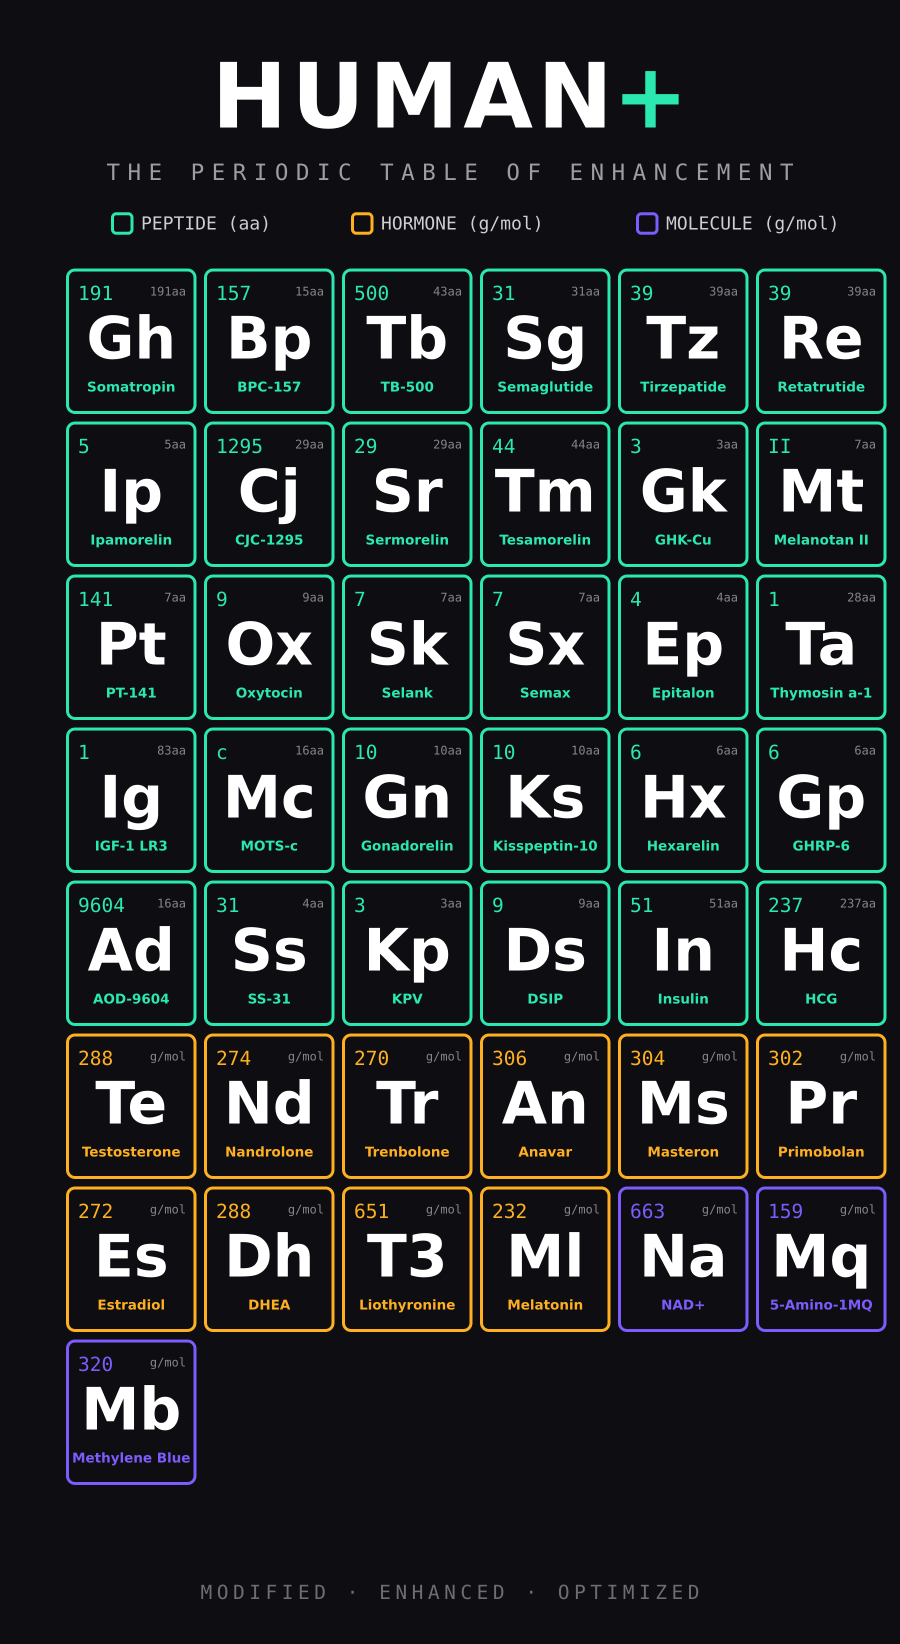
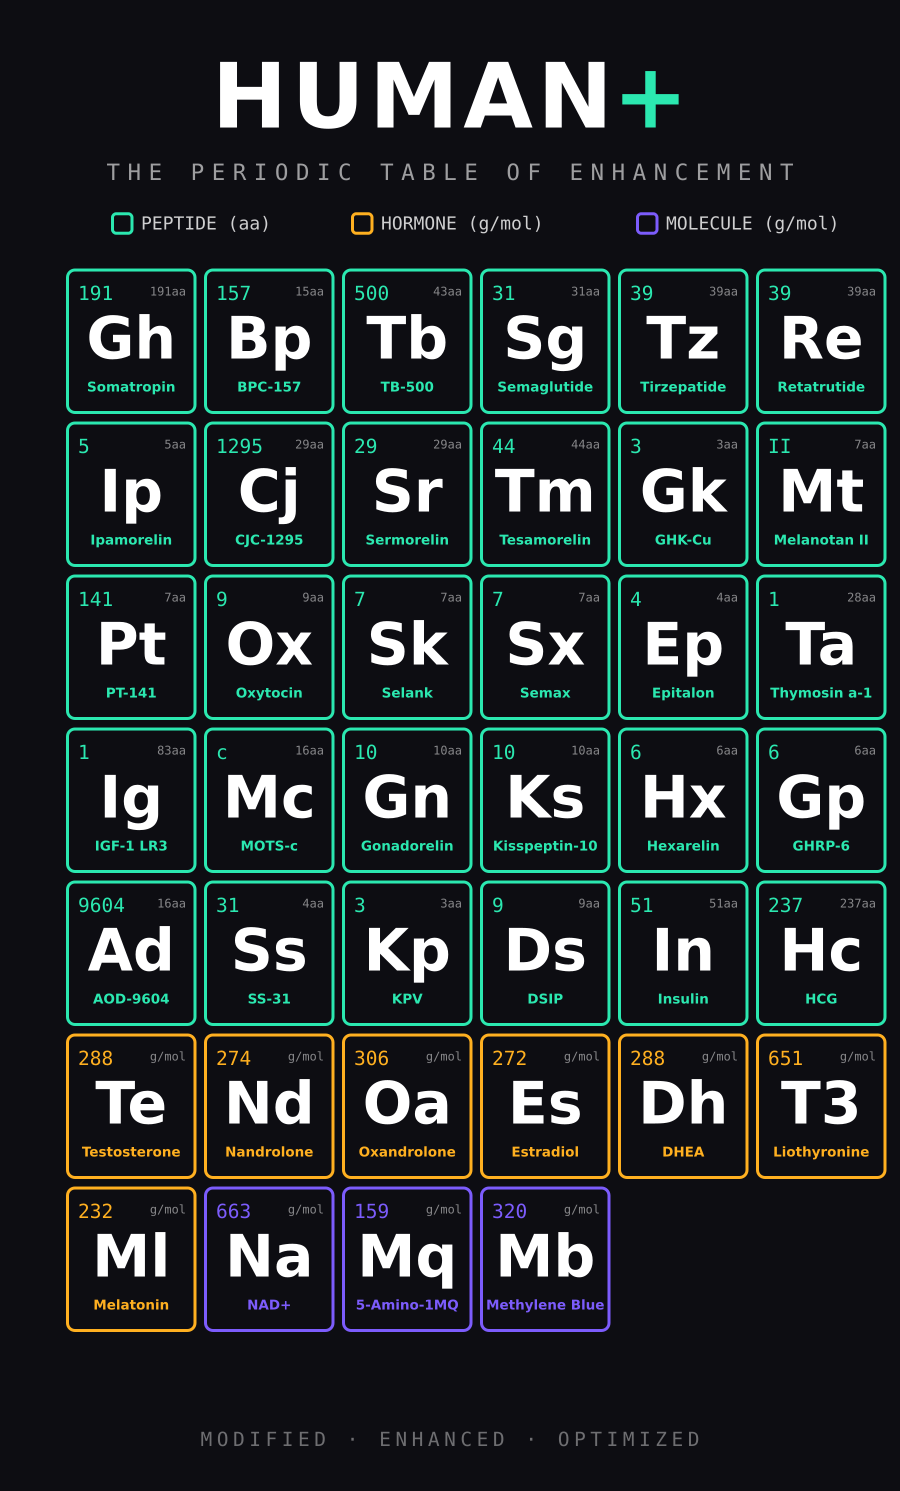
Curate hormones for POD: FDA-approved + generic names only
Per your decision (keep FDA-approved steroids; rename brand names to generic),
trim and rename the hormone family to cut Printful rejection and trademark risk:
- Dropped (never FDA-approved for human use): Trenbolone, Masteron
  (Drostanolone), Primobolan (Methenolone).
- Renamed Anavar -> Oxandrolone (generic; sym An -> Oa).
- Kept FDA-approved anabolics Testosterone, Nandrolone, Oxandrolone plus the
  non-controlled hormones Estradiol, DHEA, Liothyronine (T3), Melatonin.

Caveat recorded in code/brief: anabolic steroids remain Schedule III
controlled substances even when FDA-approved, so Te/Nd/Oa still carry some
POD review risk -- 'FDA-approved' is not the same as 'non-controlled.'

Rewired stacks that referenced dropped steroids:
- PRIME       Te+Primobolan+HCG       -> Te+Somatropin+HCG
- BLACK LABEL Te+Primobolan+GH+Reta   -> Te+Somatropin+IGF-1+Reta
- OLD GUARD   Te+Masteron+GH+Reta     -> Te+Nandrolone+GH+Reta
- GREEK GOD   Te+Primobolan+GH        -> Te+Somatropin+CJC-1295
- SHREDDER    Te+Anavar+GH+Reta       -> Te+Semaglutide+GH+Reta

Regenerated all SVGs, previews, and transparent 4500px print/+print/light/
files; removed orphaned steroid assets. Updated BRAND-DESIGN-BRIEF.md.
Verified: peptides unchanged, site has no dropped/brand names, stacks render.

diff --git a/designs/gallery.html b/designs/gallery.html
@@ -71,10 +71,7 @@
     <figure><img src="preview/tile_Hc_HCG.png" alt="tile_Hc_HCG" loading="lazy"><figcaption>tile_Hc_HCG</figcaption></figure>
     <figure><img src="preview/tile_Te_Testosterone.png" alt="tile_Te_Testosterone" loading="lazy"><figcaption>tile_Te_Testosterone</figcaption></figure>
     <figure><img src="preview/tile_Nd_Nandrolone.png" alt="tile_Nd_Nandrolone" loading="lazy"><figcaption>tile_Nd_Nandrolone</figcaption></figure>
-    <figure><img src="preview/tile_Tr_Trenbolone.png" alt="tile_Tr_Trenbolone" loading="lazy"><figcaption>tile_Tr_Trenbolone</figcaption></figure>
-    <figure><img src="preview/tile_An_Anavar.png" alt="tile_An_Anavar" loading="lazy"><figcaption>tile_An_Anavar</figcaption></figure>
-    <figure><img src="preview/tile_Ms_Masteron.png" alt="tile_Ms_Masteron" loading="lazy"><figcaption>tile_Ms_Masteron</figcaption></figure>
-    <figure><img src="preview/tile_Pr_Primobolan.png" alt="tile_Pr_Primobolan" loading="lazy"><figcaption>tile_Pr_Primobolan</figcaption></figure>
+    <figure><img src="preview/tile_Oa_Oxandrolone.png" alt="tile_Oa_Oxandrolone" loading="lazy"><figcaption>tile_Oa_Oxandrolone</figcaption></figure>
     <figure><img src="preview/tile_Es_Estradiol.png" alt="tile_Es_Estradiol" loading="lazy"><figcaption>tile_Es_Estradiol</figcaption></figure>
     <figure><img src="preview/tile_Dh_DHEA.png" alt="tile_Dh_DHEA" loading="lazy"><figcaption>tile_Dh_DHEA</figcaption></figure>
     <figure><img src="preview/tile_T3_Liothyronine.png" alt="tile_T3_Liothyronine" loading="lazy"><figcaption>tile_T3_Liothyronine</figcaption></figure>

diff --git a/designs/index.html b/designs/index.html
@@ -490,44 +490,14 @@ const DB = {
 "formula": "C18H26O2"
 },
 {
-"sym": "Tr",
-"full": "Trenbolone",
-"sub": "Androgen",
-"fam": "HOR",
-"name_num": "",
-"count": 270,
-"tag": "NO COMPROMISE",
-"formula": "C18H22O2"
-},
-{
-"sym": "An",
-"full": "Anavar",
-"sub": "Oxandrolone",
+"sym": "Oa",
+"full": "Oxandrolone",
+"sub": "Anabolic Steroid",
 "fam": "HOR",
 "name_num": "",
 "count": 306,
 "tag": "THE CUT",
 "formula": "C19H30O3"
-},
-{
-"sym": "Ms",
-"full": "Masteron",
-"sub": "Drostanolone",
-"fam": "HOR",
-"name_num": "",
-"count": 304,
-"tag": "HARD & DRY",
-"formula": "C20H32O2"
-},
-{
-"sym": "Pr",
-"full": "Primobolan",
-"sub": "Methenolone",
-"fam": "HOR",
-"name_num": "",
-"count": 302,
-"tag": "LEAN TISSUE, KEPT",
-"formula": "C20H30O2"
 },
 {
 "sym": "Es",
@@ -682,7 +652,7 @@ const DB = {
 "sub": "Hormone Performance",
 "comps": [
 "Te",
-"Pr",
+"Gh",
 "Hc"
 ],
 "tag": "PEAK CONDITION",
@@ -704,8 +674,8 @@ const DB = {
 "sub": "Body Composition",
 "comps": [
 "Te",
-"Pr",
 "Gh",
+"Ig",
 "Re"
 ],
 "tag": "TOP SHELF ONLY",
@@ -716,7 +686,7 @@ const DB = {
 "sub": "Body Composition",
 "comps": [
 "Te",
-"Ms",
+"Nd",
 "Gh",
 "Re"
 ],
@@ -728,8 +698,8 @@ const DB = {
 "sub": "Body Composition",
 "comps": [
 "Te",
-"Pr",
-"Gh"
+"Gh",
+"Cj"
 ],
 "tag": "CARVED FROM MARBLE",
 "extras": "GH peptide support"
@@ -750,7 +720,7 @@ const DB = {
 "sub": "Body Composition",
 "comps": [
 "Te",
-"An",
+"Sg",
 "Gh",
 "Re"
 ],

diff --git a/designs/generate_tiles.py b/designs/generate_tiles.py
@@ -73,13 +73,19 @@ ELEMENTS = [
     ("Ds", "DSIP",           "Delta Sleep Peptide",   "PEP", "",     9,   "DELTA SLEEP",            ""),
     ("In", "Insulin",        "A21 / B30 Chains",      "PEP", "",     51,  "THE MASTER SWITCH",      ""),
     ("Hc", "HCG",            "Chorionic Gonadotropin","PEP", "",     237, "KEEP THE SIGNAL LIVE",   ""),
-    # --- HORMONE / STEROID FAMILY : numbered by molecular weight (g/mol) ---
+    # --- HORMONE FAMILY : numbered by molecular weight (g/mol) ---
+    #     Curated for POD sale to FDA-APPROVED anabolics + NON-controlled hormones,
+    #     using GENERIC (non-trademarked) names only:
+    #       - Testosterone, Nandrolone, Oxandrolone are FDA-approved anabolic
+    #         steroids. NOTE: anabolic steroids are still Schedule III controlled
+    #         substances even when FDA-approved, so these carry some POD review risk.
+    #       - Estradiol, DHEA, Liothyronine (T3), Melatonin are non-controlled.
+    #     DROPPED (never FDA-approved for human use): Trenbolone, Masteron
+    #     (Drostanolone), Primobolan (Methenolone). Brand names (Anavar, etc.)
+    #     renamed to generic to avoid trademark exposure.
     ("Te", "Testosterone",   "Androgen",             "HOR", "", 288, "THE ORIGINAL UPGRADE", "C19H28O2"),
     ("Nd", "Nandrolone",     "19-Nortestosterone",   "HOR", "", 274, "JOINTS OF STEEL",      "C18H26O2"),
-    ("Tr", "Trenbolone",     "Androgen",             "HOR", "", 270, "NO COMPROMISE",        "C18H22O2"),
-    ("An", "Anavar",         "Oxandrolone",          "HOR", "", 306, "THE CUT",              "C19H30O3"),
-    ("Ms", "Masteron",       "Drostanolone",         "HOR", "", 304, "HARD & DRY",           "C20H32O2"),
-    ("Pr", "Primobolan",     "Methenolone",          "HOR", "", 302, "LEAN TISSUE, KEPT",    "C20H30O2"),
+    ("Oa", "Oxandrolone",    "Anabolic Steroid",     "HOR", "", 306, "THE CUT",              "C19H30O3"),
     ("Es", "Estradiol",      "Estrogen",             "HOR", "", 272, "BALANCE THE EQUATION", "C18H24O2"),
     ("Dh", "DHEA",           "Adrenal Precursor",    "HOR", "", 288, "THE PRECURSOR",        "C19H28O2"),
     ("T3", "Liothyronine",   "Thyroid T3",           "HOR", "", 651, "THROTTLE THE FURNACE", "C15H12I3NO4"),
@@ -104,14 +110,14 @@ STACKS = [
     # --- Hormone-base performance ---
     ("THE FOUNDATION",  "Hormone Performance", ["Te", "Hc"],             "BUILT ON BEDROCK",       "estrogen management"),
     ("WORKHORSE",       "Hormone Performance", ["Te", "Gh"],             "SHOW UP EVERY DAY",      ""),
-    ("PRIME",           "Hormone Performance", ["Te", "Pr", "Hc"],       "PEAK CONDITION",         ""),
+    ("PRIME",           "Hormone Performance", ["Te", "Gh", "Hc"],       "PEAK CONDITION",         ""),
     # --- Advanced body composition ---
     ("THE HOLY TRINITY","Body Composition",    ["Te", "Gh", "Re"],       "THREE IS ALL YOU NEED",  ""),
-    ("BLACK LABEL",     "Body Composition",    ["Te", "Pr", "Gh", "Re"], "TOP SHELF ONLY",         "KLOW blend"),
-    ("OLD GUARD",       "Body Composition",    ["Te", "Ms", "Gh", "Re"], "EARNED NOT GIVEN",       "KLOW blend"),
-    ("GREEK GOD",       "Body Composition",    ["Te", "Pr", "Gh"],       "CARVED FROM MARBLE",     "GH peptide support"),
+    ("BLACK LABEL",     "Body Composition",    ["Te", "Gh", "Ig", "Re"], "TOP SHELF ONLY",         "KLOW blend"),
+    ("OLD GUARD",       "Body Composition",    ["Te", "Nd", "Gh", "Re"], "EARNED NOT GIVEN",       "KLOW blend"),
+    ("GREEK GOD",       "Body Composition",    ["Te", "Gh", "Cj"],       "CARVED FROM MARBLE",     "GH peptide support"),
     ("MASS MONSTER",    "Body Composition",    ["Te", "Gh", "Ig"],       "MAXIMUM OVERLOAD",       ""),
-    ("SHREDDER",        "Body Composition",    ["Te", "An", "Gh", "Re"], "SHRINK-WRAPPED",         ""),
+    ("SHREDDER",        "Body Composition",    ["Te", "Sg", "Gh", "Re"], "SHRINK-WRAPPED",         ""),
     # --- Cognitive / nootropic ---
     ("STOIC",           "Cognitive / Nootropic",["Sk"],                  "UNSHAKEABLE",            "adaptogen + nootropic support"),
     ("LIMITLESS",       "Cognitive / Nootropic",["Sx", "Mb"],            "NO CEILING",             "nootropic support"),

diff --git a/designs/BRAND-DESIGN-BRIEF.md b/designs/BRAND-DESIGN-BRIEF.md
@@ -21,7 +21,7 @@ scientific instead of inconsistent:
 | Family | Symbol | Top-left number | Top-right | Accent |
 |---|---|---|---|---|
 | **PEPTIDE** | 2-letter code (`Bp`, `Tb`, `Pt`) | the number already in the name (157, 500, 141) — falls back to the aa count if there's no number | amino-acid count (or `PEPTIDE` tag) | mint `#2BE8B0` |
-| **HORMONE** | 2-letter code (`Te`, `Tr`, `Es`) | **molecular weight, g/mol** | chemical formula | amber `#FFB020` |
+| **HORMONE** | 2-letter code (`Te`, `Nd`, `Es`) | **molecular weight, g/mol** | chemical formula | amber `#FFB020` |
 
 **Tile anatomy:** the big center symbol is a uniform **2 letters** so every tile reads
 the same from across a room (true periodic-table feel). Recognizability comes from the
@@ -70,12 +70,15 @@ Symbol + the number from the name (top-left) + amino-acid count (top-right) + fu
 ### Hormone/steroid family — numbered by molecular weight (g/mol)
 | g/mol | Sym | Compound | Class | Tagline |
 |---|---|---|---|---|
+Curated for POD: FDA-approved anabolics + non-controlled hormones, generic
+(non-trademarked) names only. Dropped (never FDA-approved for human use):
+Trenbolone, Masteron/Drostanolone, Primobolan/Methenolone. NOTE: anabolic
+steroids stay Schedule III even when FDA-approved, so Te/Nd/Oa still carry
+some POD review risk.
+
 | 288 | Te | Testosterone | Androgen | THE ORIGINAL UPGRADE |
 | 274 | Nd | Nandrolone | 19-nortestosterone | JOINTS OF STEEL |
-| 270 | Tr | Trenbolone | Androgen | NO COMPROMISE |
-| 306 | An | Anavar (Oxandrolone) | Oral androgen | THE CUT |
-| 304 | Ms | Masteron (Drostanolone) | Androgen | HARD & DRY |
-| 302 | Pr | Primobolan (Methenolone) | Androgen | LEAN TISSUE, KEPT |
+| 306 | Oa | Oxandrolone | Anabolic steroid | THE CUT |
 | 272 | Es | Estradiol | Estrogen | BALANCE THE EQUATION |
 | 288 | Dh | DHEA | Adrenal precursor | THE PRECURSOR |
 | 651 | T3 | Liothyronine | Thyroid T3 | THROTTLE THE FURNACE |
@@ -133,7 +136,7 @@ any print run** — a few are newer or have analog ambiguity:
 - **Retatrutide = 39 aa** (confirmed), Tirzepatide = 39 aa
 - **CJC-1295 = 29 aa** (modified GRF(1-29) backbone; the DAC version adds a non-amino-acid complex)
 - **TB-500 = 43 aa** (full Thymosin β-4; TB-500 itself is often a fragment)
-- New steroids use the **base molecule** MW (no ester): Anavar 306, Masteron 304, Primobolan 302
+- Steroids use the **base molecule** MW (no ester): Oxandrolone 306
 - AOD-9604 = 16 aa (hGH 176-191 + Tyr)
 
 ---
